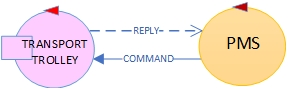
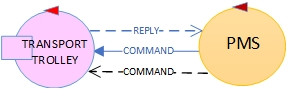
Last small requiremtents fixed

Changed region(s): [[0.2812, 0.5111, 0.75, 0.8667]]

diff --git a/requirements/userDocs/Automated Car-Parking.html b/requirements/userDocs/Automated Car-Parking.html
@@ -488,8 +488,54 @@ div.imagedesc{
   to it with the outcome of execution. This behaviour reveals that a <b>synchronous communication</b> is more situable.
  Alternatively, <b>asynchronous communication</b> could be used. However, this type of communication would force the system
   to have less knowledge of the current state of the transport trolley.
-</div>
-<center><img src="IMG/TRANSPORT TROLLEY.jpg" alt="TRANSPORTROLLEY" width="30%"></center>
+</div><br>
+<table cellpadding="20%" style="border: 0px solid transparent;width:98%;" style="width:98%">
+  <tr>
+    <td style="border: 0px">
+        <center><img src="IMG/TRANSPORT TROLLEY.jpg" alt="TRANSPORTROLLEY" width="60%"></center>
+    </td>
+    <td style="border: 0px">
+      <center><table cellpadding="5%">
+        <tbody><tr>
+            <th>Message</th>
+            <th>Content</th>
+            <th>Semantic</th>
+        </tr>
+        <tr>
+            <td>command</td>
+            <td>step</td>
+            <td>request</td>
+        </tr>
+        <tr>
+            <td rowspan="5">command</td>
+            <td>halt</td>
+            <td rowspan="5">dispatch</td>
+        </tr>
+        <tr>
+            <td>forward</td>
+        </tr>
+        <tr>
+            <td>backward</td>
+        </tr>
+        <tr>
+            <td>turnLeft</td>
+        </tr>
+        <tr>
+            <td>turnRight</td>
+        </tr>
+        <tr>
+            <td rowspan="2">reply</td>
+            <td>stepdone</td>
+            <td rowspan="2">reply</td>
+        </tr>
+        <tr>
+            <td>stepfail</td>
+        </tr>
+    </tbody></table></center>
+  </td>
+</tr>
+</table>
+<br>
 <h3> Fan </h3>
 <div class="remark">
 The <ks>fan</ks> does not own or produce any valuable information by itself but it is a component controlled by the system.
@@ -677,16 +723,15 @@ state whenever the <ks>PMS</ks> requests its state of activation. Similarly to t
     Manager's interface must be able to send commands to the fan and the <ks>trasport trolley</ks> as well as receive and show details
     about current system status. Another key functionality that the manager's interface must integrate is the ability
     to receive and show in a proper way the alarm signal.<br>
-    However, the polling mechanism would affect system performance and resources. <br>
     The system behaviour results in two type of interaction between the <ks>ParkServiceStatusGUI</ks> and the <ks>PMS</ks>:
     <ul>
       <li>to stop/resume both fan and trasport trolley with a request/response semantic. This
       allows both entities to know if a command was successful or not. Alternatively, a dispatch semantic can be used to make the interaction less constrained;</li>
-      <li>to receive data about the current status of the system with a dispatch or dispatch semantic. <!-- This allows to
+      <li>to receive data about the current status of the system with a dispatch or invitation semantic. <!-- This allows to
       reply the system with an ack about the Information received. That mechanism is fundamental
       especially when the alarm is triggered.--></li>
     </ul>
-    Below a detailed list of what the GUI must show:
+    Below a <a id="status">detailed list</a> of what the GUI must show:
     <ul>
       <li>status of the <ks>fan</ks> (<b>on/off</b>);</li>
       <li>status of the <ks>transport trolley</ks> (<b>idle/working/stopped</b>);</li>
@@ -745,7 +790,7 @@ state whenever the <ks>PMS</ks> requests its state of activation. Similarly to t
               </tr>
               <tr>
                 <td>System Status</td>
-                <td><a href="#current_state">check above</a></td>
+                <td><a href="#status">check above</a></td>
                 <td>dispatch</td>
               </tr>
               <tr>
@@ -796,13 +841,18 @@ state whenever the <ks>PMS</ks> requests its state of activation. Similarly to t
                 <td>acceptOUT</td>
               </tr>
               <tr>
-                <td rowspan="4">Reply</td>
+                <td rowspan="5">Reply</td>
                 <td>ok</td>
-                <td rowspan="4">reply</td>
+                <td rowspan="5">reply</td>
               </tr>
               <tr>
                 <td>
                   fail
+                </td>
+              </tr>
+              <tr>
+                <td>
+                  wait
                 </td>
               </tr>
               <tr>
@@ -910,7 +960,7 @@ state whenever the <ks>PMS</ks> requests its state of activation. Similarly to t
       <li>INDOOR cell (6,0) / OUTDOOR cell (6,4);</li>
       <li>temperature under <ks>TMAX</ks>;</li>
       <li>one client;</li>
-      <li>free INDoor-area;</li>
+      <li>free INDOOR-area;</li>
       <li>no interaction from parking manager;</li>
       <li>one free parking slot (3,3) <ks>SLOTNUM</ks> = 6.</li>
     </ul>
